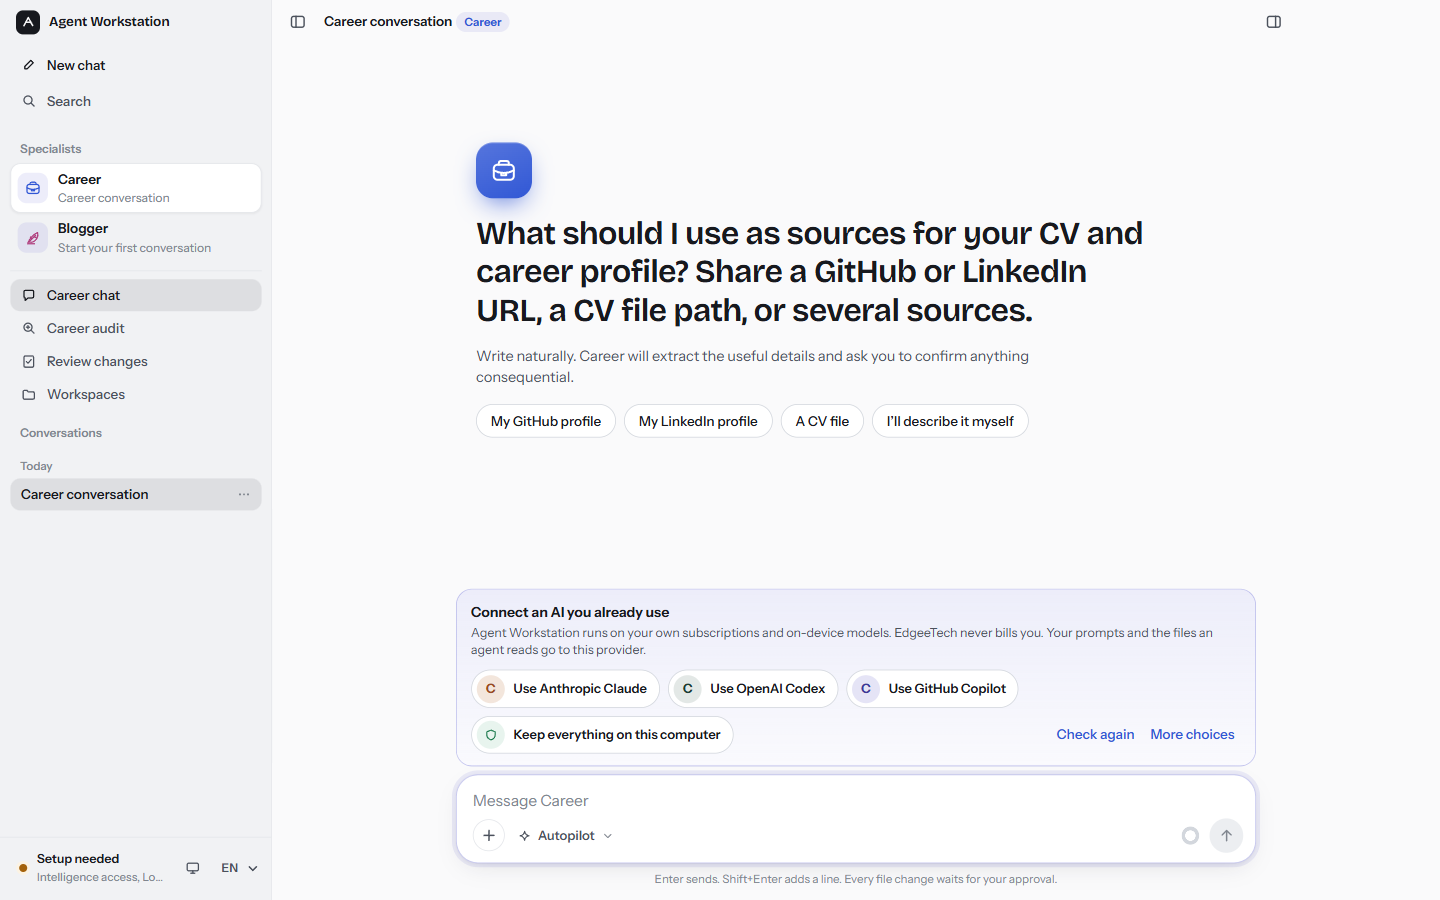
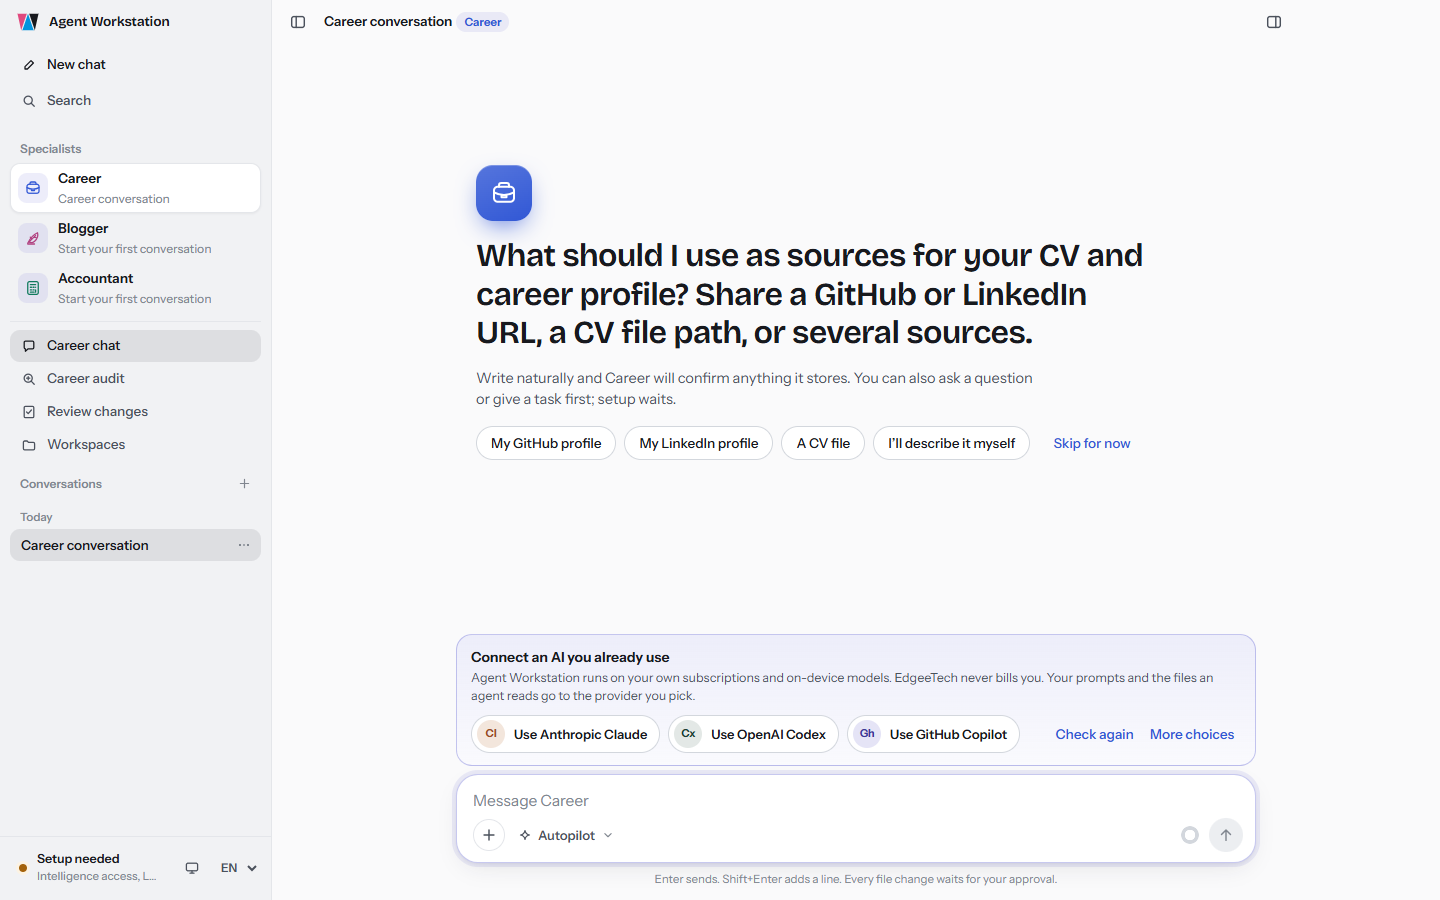
Fix the stretched Agent Workstation screenshot and refresh it (#5)

diff --git a/src/styles/main.css b/src/styles/main.css
@@ -843,6 +843,11 @@ a.badge:hover {
   padding: 0;
   line-height: 0;
 }
+.terminal-body--shot img {
+  display: block;
+  width: 100%;
+  height: auto;
+}
 
 .terminal-body .line {
   display: block;
